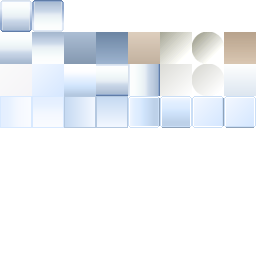
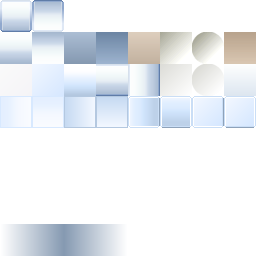
- L'adorner LookRoyale sait dessiner PaintProgressIndicator dans tous les modes.
git-svn-id: https://svn.opac.ch/svn/cr/branches/vs2005/Epsitec.Cresus@8417 787ff09c-d2b5-7842-b444-8dd0a418631d

Changed region(s): [[0.0312, 0.875, 0.4688, 1.0]]

diff --git a/Epsitec.Cresus/Common.Widgets/Adorners/LookRoyale.cs b/Epsitec.Cresus/Common.Widgets/Adorners/LookRoyale.cs
@@ -1084,6 +1084,61 @@ namespace Epsitec.Common.Widgets.Adorners
 												ProgressIndicatorStyle style,
 												double progress)
 		{
+			this.PaintImageButton(graphics, rect, 1);
+
+			double radius = this.RetRadius(rect);
+			Drawing.Path path = this.PathRoundRectangle(rect, radius);
+			graphics.Rasterizer.AddOutline(path, 1);
+			graphics.RenderSolid(this.colorBorder);
+
+			Drawing.Rectangle rInside = rect;
+			rInside.Deflate(3);
+			if (style == ProgressIndicatorStyle.UnknownDuration)
+			{
+				double x = rInside.Width*progress;
+				double w = rInside.Width*0.4;
+
+				this.PaintProgressUnknow(graphics, rInside, w, x-w);
+				this.PaintProgressUnknow(graphics, rInside, w, x-w+rInside.Width);
+			}
+			else
+			{
+				if (progress != 0)
+				{
+					rInside.Width *= progress;
+					this.PaintImageButton(graphics, rInside, 11);
+				}
+			}
+
+			rInside = rect;
+			rInside.Deflate(3.5);
+			graphics.AddRectangle(rInside);
+			graphics.RenderSolid(this.colorBorder);
+		}
+
+		protected void PaintProgressUnknow(Drawing.Graphics graphics, Drawing.Rectangle rect, double w, double x)
+		{
+			Drawing.Rectangle fill = new Drawing.Rectangle(rect.Left+x, rect.Bottom, w, rect.Height);
+			Drawing.Rectangle icon = new Drawing.Rectangle(0, 0, 32*4, 32);
+
+			if (fill.Left < rect.Left)
+			{
+				double over = (rect.Left-fill.Left)/w;
+				icon.Left += icon.Width*over;
+				fill.Left = rect.Left;
+			}
+
+			if (fill.Right > rect.Right)
+			{
+				double over = (fill.Right-rect.Right)/w;
+				icon.Width -= icon.Width*over;
+				fill.Right = rect.Right;
+			}
+
+			if (fill.Width > 0)
+			{
+				graphics.PaintImage(this.bitmap, fill, icon);
+			}
 		}
 
 		public override void PaintGroupBox(Drawing.Graphics graphics,

diff --git a/Epsitec.Cresus/Common.Dialogs.Tests/WorkInProgressDialogTest.cs b/Epsitec.Cresus/Common.Dialogs.Tests/WorkInProgressDialogTest.cs
@@ -24,7 +24,7 @@ namespace Epsitec.Common.Dialogs
 
 			Epsitec.Common.Support.Implementation.FileProvider.DefineGlobalProbingPath (string.Join (";", paths));
 			//?Epsitec.Common.Widgets.Adorners.Factory.SetActive ("LookMetal");
-			Epsitec.Common.Widgets.Adorners.Factory.SetActive ("LookRusty");
+			Epsitec.Common.Widgets.Adorners.Factory.SetActive ("LookRoyale");
 			Epsitec.Common.Document.Engine.Initialize ();
 		}
 
